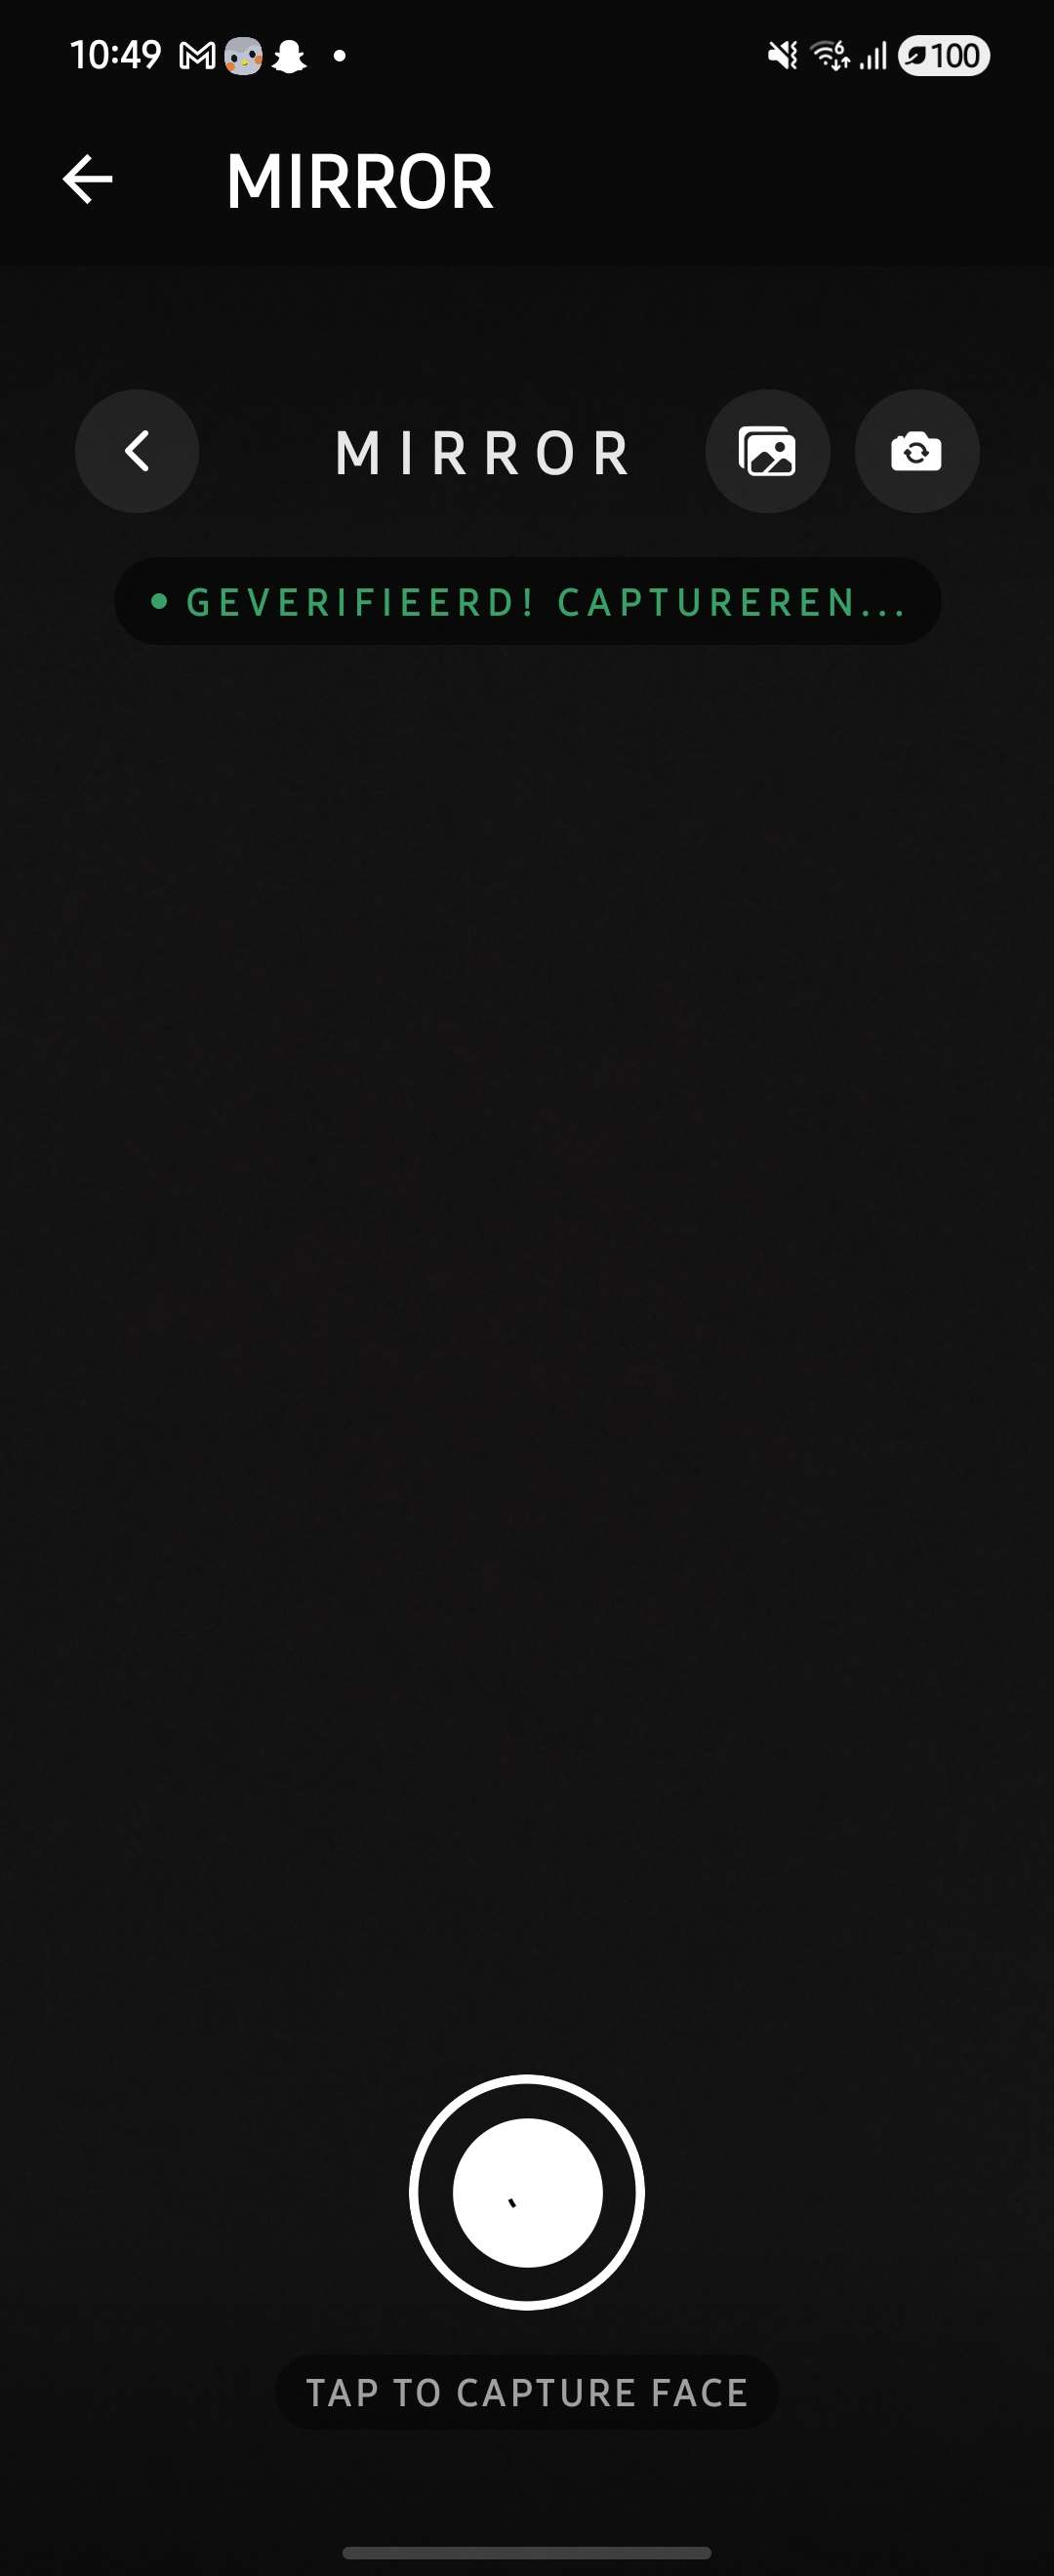
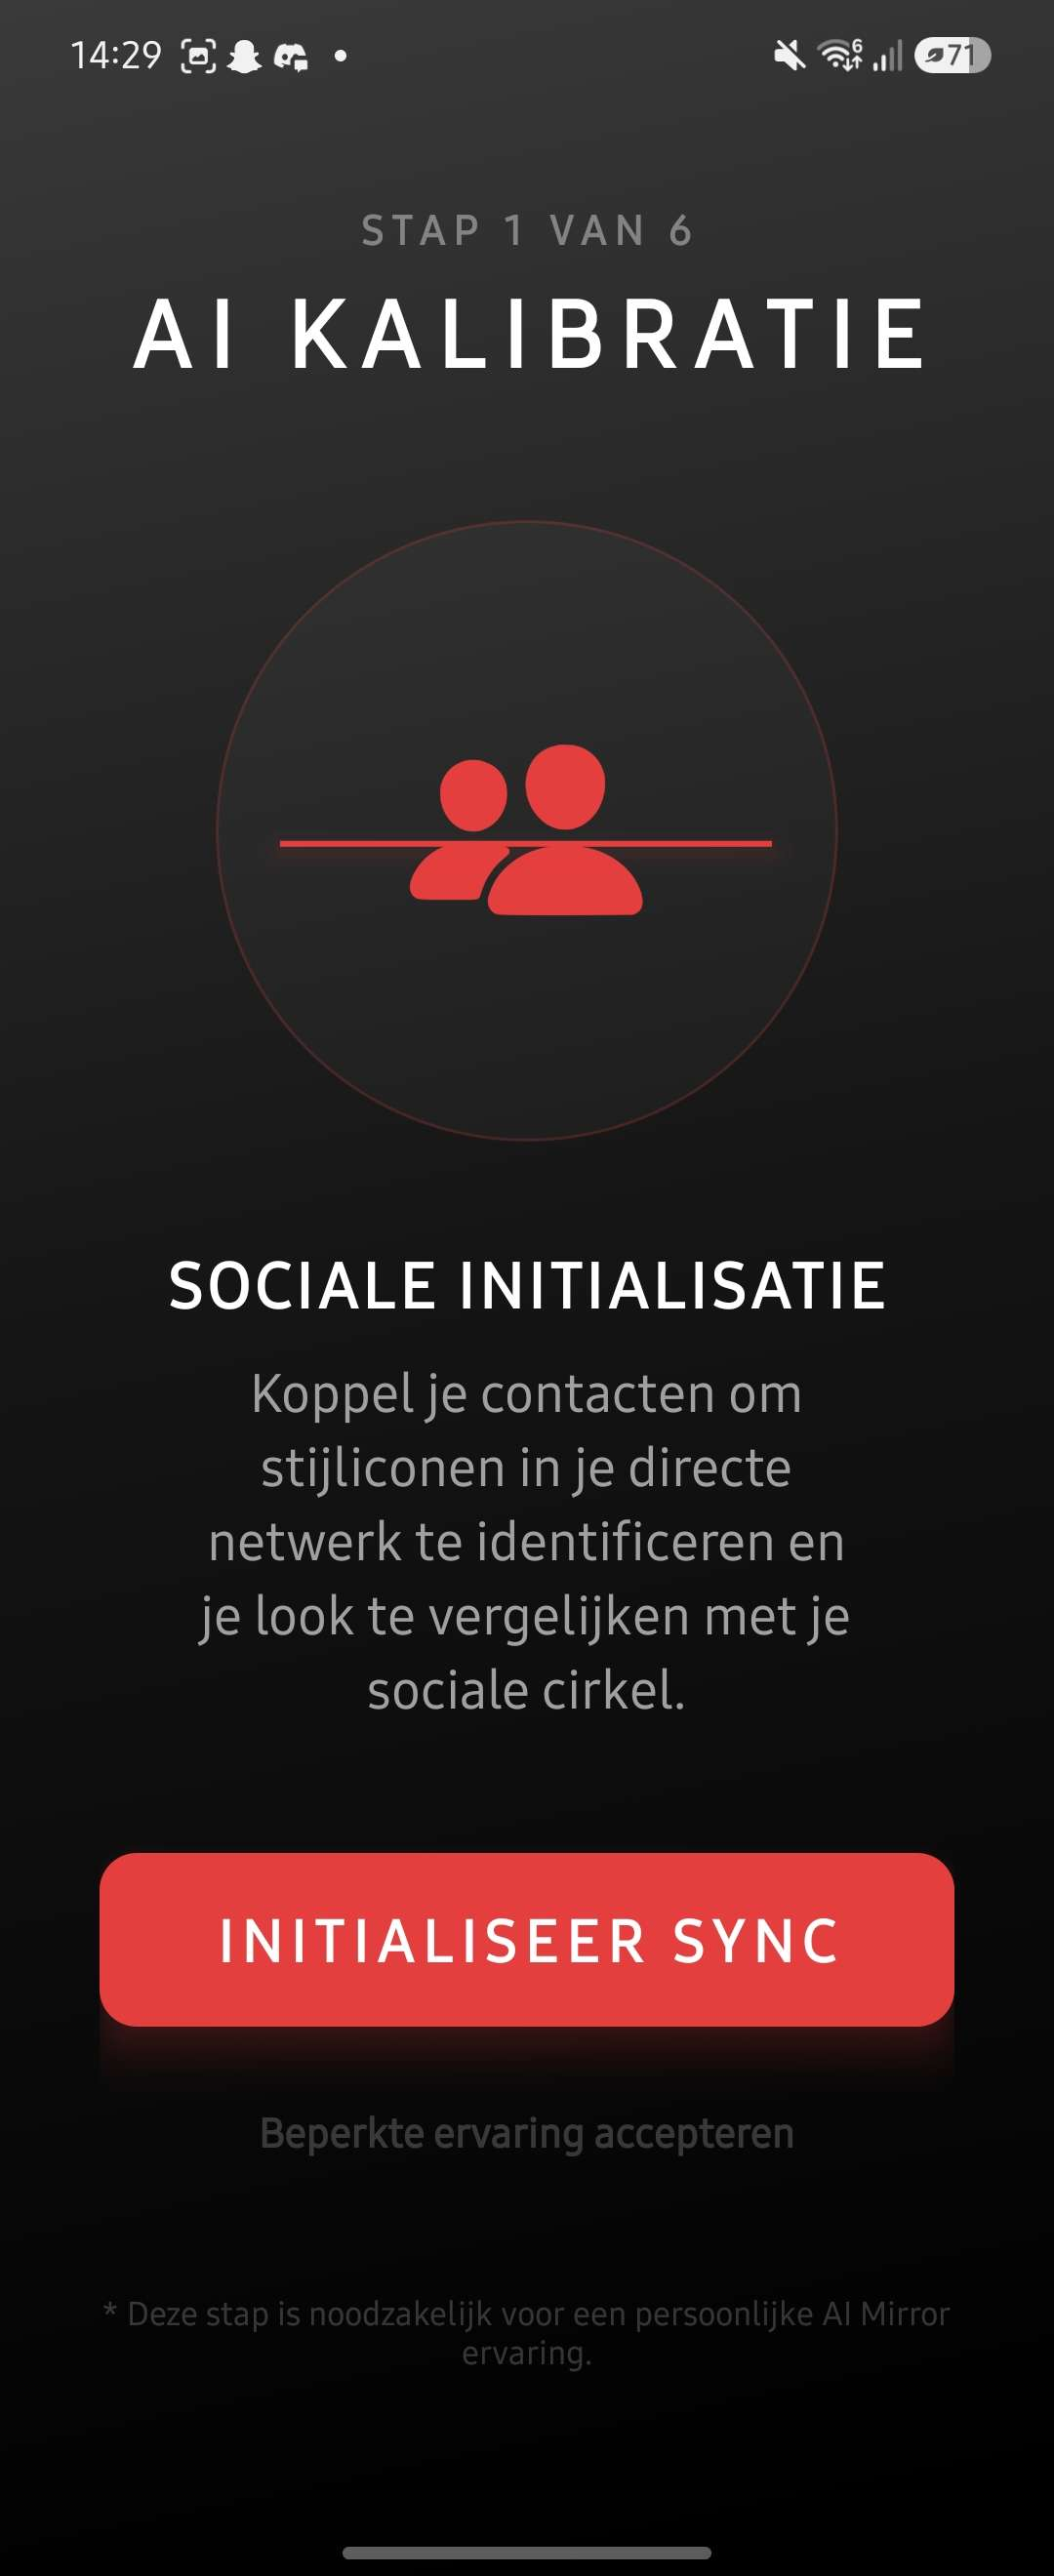
feat: add Projects component with gallery integration and project showcase data

diff --git a/src/components/Projects.tsx b/src/components/Projects.tsx
@@ -20,31 +20,85 @@ const projects: Project[] = [
   {
     id: 1,
     label: 'School Project',
-    name: 'AI Stylist Companion',
-    description: 'A sophisticated AI-driven style tool that analyzes user preferences and physical traits to provide personalized fashion recommendations. Built to bridge the gap between AI technology and personal expression.',
-    tech: ['Mobile Engineering', 'Computer Vision', 'Style Analysis'],
-    image: '/smaakmanipulatie-home.png',
+    name: 'Smaakmanipulatie (Taste Manipulation)',
+    description: 'An interactive, provocative Dark Tech prototype developed for the Lectoraat Fashion Research & Technology at AUAS (Hogeschool van Amsterdam). Designed to expose how digital recommendation engines transition from personalization to active manipulation, this project technically implements the "mere exposure effect" through seven deliberate deceptive patterns. By tracking user behavior and silently adjusting style feeds, the system forces a critical dilemma: do we still choose what we find beautiful, or has the algorithm manufactured our taste?',
+    tech: ['React Native', 'OpenAI Vision', 'Deceptive UX Patterns', 'Data Dashboards'],
+    image: '/smaakmanipulatie-1.png',
     allImages: [
-      { url: '/smaakmanipulatie-home.png', desc: 'Main entry point for the AI Stylist experience' },
-      { url: '/smaakmanipulatie-profile.png', desc: 'Detailed user profiling for physical traits and style mapping' },
-      { url: '/smaakmanipulatie-3.png', desc: 'Live mirror interface for facial data capture and verification' },
-      { url: '/smaakmanipulatie-4.png', desc: 'Personalized stijlsuggesties with actionable shopping links' },
-      { url: '/smaakmanipulatie-5.png', desc: 'Successful completion of the style analysis process' }
+      {
+        url: '/smaakmanipulatie-1.png',
+        desc: 'The entry point. Before the user does anything, the app positions itself as an intelligent, personal tool. The "3 scans over" counter introduces scarcity before consent is even given — the algorithm is already shaping behaviour.'
+      },
+      {
+        url: '/smaakmanipulatie-2.png',
+        desc: 'Account creation is framed as the start of a personal style journey. In reality, it is the first moment data is collected and the profile begins. The user does not yet know what that profile will be used for.'
+      },
+      {
+        url: '/smaakmanipulatie-3.png',
+        desc: 'Step 1 of 6. The app requests access to the user\'s contacts under the name "Sociale Initialisatie." Skipping is possible, but the option is labelled as accepting a limited experience. The cost of refusal is made to feel personal.'
+      },
+      {
+        url: '/smaakmanipulatie-4.png',
+        desc: 'The app asks for a home address to improve "hyperlocal style accuracy." The connection to taste is vague — the connection to logistics and targeting is not. Personalisation is used to justify data the system needs, not the user.'
+      },
+      {
+        url: '/smaakmanipulatie-5.png',
+        desc: 'After onboarding, the home screen shows the calibration score: 98.4%. The number suggests precision and completion. What it actually represents is how thoroughly the user has been profiled. The feed is now ready to begin.'
+      },
+      {
+        url: '/smaakmanipulatie-6.png',
+        desc: 'Gender and body type are collected as profiling categories. The framing is neutral — "for the perfect fit" — but the data directly determines which styles are surfaced and repeated. The mere exposure effect begins here.'
+      },
+      {
+        url: '/smaakmanipulatie-7.png',
+        desc: 'A loading screen that stalls at 98%. Cancellation is possible but barely visible. The screen uses waiting as a commitment device — time spent creates obligation. This is the moment the user is locked in without realising it.'
+      },
+      {
+        url: '/smaakmanipulatie-8.png',
+        desc: 'The suggestion feed. Items are shown repeatedly, in varying orders, with increasing familiarity. The dislike option is smaller and less prominent than the like. Over time, exposure shapes preference — the algorithm trains taste, not the user.'
+      },
+      {
+        url: '/smaakmanipulatie-9.png',
+        desc: 'Rejecting a suggestion triggers a mandatory donation. The action of not wanting something becomes a transaction. Refusal is no longer neutral — it has a cost attached. The system removes the option of simply saying no.'
+      },
+      {
+        url: '/smaakmanipulatie-10.png',
+        desc: 'Liking a suggestion immediately processes a payment of 149.99 from the linked account. The confirmation appears after the fact. A 5-second cancellation window exists but is not the primary action on screen. The choice has already been made.'
+      },
+      {
+        url: '/smaakmanipulatie-11.png',
+        desc: 'The order is placed and dispatched to the registered address — automatically, based on interaction signals. The user\'s swipe behaviour, not a deliberate purchase decision, determined the outcome. This is the end of the funnel the app never announced.'
+      }
     ]
   },
   {
     id: 2,
-    label: 'School Project',
+    label: 'Team Project',
     name: 'Rhino Elections',
-    description: 'A comprehensive election data platform providing clear insights into Dutch political results through data visualization, comparative analysis, and secure user interactions.',
-    tech: ['Data Visualization', 'User Management', 'Web Engineering'],
+    description: 'A civic data platform built to make Dutch election results accessible and comparable for anyone. The assignment asked how technology could bring citizens closer to European politics — our answer was transparency through data. Built with a Vue.js frontend and a Spring Boot REST API consuming official Kiesraad XML data, with JWT authentication, forum discussions, and Docker deployment.',
+    tech: ['Vue.js', 'Spring Boot', 'JWT Auth', 'Docker'],
     image: '/elections-1.png',
     allImages: [
-      { url: '/elections-1.png', desc: 'Information dashboard showing key election figures and mission' },
-      { url: '/elections-2.png', desc: 'Parliamentary seat distribution overview (Hemicycle view)' },
-      { url: '/elections-3.png', desc: 'Analytical year-on-year comparison of election outcomes' },
-      { url: '/elections-4.png', desc: 'Secure community login and registration interface' },
-      { url: '/elections-5.png', desc: 'Integrated profile management with real-time success feedback' }
+      {
+        url: '/elections-1.png',
+        desc: 'The starting point for the platform. The headline frames the intent directly: all data on Dutch elections, in one place. Key figures from the most recent election are surfaced immediately — year, number of parties, total candidates. The mission section states it plainly: clarity, transparency, and independent decision-making.'
+      },
+      {
+        url: '/elections-2.png',
+        desc: 'The seat distribution view for the 2023 Tweede Kamerverkiezingen. A hemicycle diagram maps 150 seats across all parties. Below it, a filterable table breaks down votes and seats per party by region. The data comes directly from the Kiesraad XML feed, parsed and aggregated in the backend without database queries.'
+      },
+      {
+        url: '/elections-3.png',
+        desc: 'The comparison view lets users put two election years side by side — here 2021 and 2023, filtered to a specific kieskring. Biggest gainers and losers are surfaced automatically. Parties that appeared or disappeared between elections are listed separately. The goal was to make political shifts legible without needing prior knowledge.'
+      },
+      {
+        url: '/elections-4.png',
+        desc: 'A login is required to participate in forum discussions. The platform is readable without an account — authentication gates contribution, not access. Registration and login share the same screen. JWT tokens handle session management without Spring Security, as required by the assignment.'
+      },
+      {
+        url: '/elections-5.png',
+        desc: 'The profile page, where users can update their username, bio, avatar, and email. A success message confirms the change without a page reload. The forum feature depends on identity — this screen is where that identity is managed.'
+      }
     ]
   }
 ];
@@ -71,9 +125,9 @@ const Projects: React.FC<ProjectsProps> = ({ onOpenGallery }) => {
     <section id="projects" className="py-32 relative bg-zinc-900/10 overflow-hidden">
       {/* Seamless Dot Pattern Overlay */}
       <div className="absolute inset-0 bg-dot-pattern mask-fade-y pointer-events-none opacity-40" />
-      
+
       <div className="max-w-6xl mx-auto px-8 relative z-10">
-        <motion.div 
+        <motion.div
           initial={{ opacity: 0, y: 20 }}
           whileInView={{ opacity: 1, y: 0 }}
           viewport={{ once: true, margin: "-100px" }}
@@ -87,8 +141,8 @@ const Projects: React.FC<ProjectsProps> = ({ onOpenGallery }) => {
             Featured Projects
           </h2>
         </motion.div>
-        
-        <motion.div 
+
+        <motion.div
           variants={containerVariants}
           initial="hidden"
           whileInView="show"
@@ -96,17 +150,17 @@ const Projects: React.FC<ProjectsProps> = ({ onOpenGallery }) => {
           className="grid grid-cols-1 lg:grid-cols-2 gap-8"
         >
           {projects.map((project) => (
-            <motion.article 
+            <motion.article
               variants={itemVariants}
               key={project.id}
               className="flex flex-col overflow-hidden cursor-pointer group glass rounded-3xl transition-all duration-400 hover:-translate-y-2 hover:border-white/20"
               onClick={() => onOpenGallery(project.allImages)}
             >
               <div className="w-full aspect-[16/10] relative overflow-hidden bg-[#111]">
-                <img 
-                  src={project.image} 
-                  alt={project.name} 
-                  loading="lazy" 
+                <img
+                  src={project.image}
+                  alt={project.name}
+                  loading="lazy"
                   className="w-full h-full object-cover transition-transform duration-700 ease-[cubic-bezier(0.2,0,0.2,1)] group-hover:scale-105"
                 />
                 <div className="absolute inset-0 bg-zinc-950/40 flex items-center justify-center opacity-0 transition-opacity duration-400 group-hover:opacity-100">
@@ -125,7 +179,7 @@ const Projects: React.FC<ProjectsProps> = ({ onOpenGallery }) => {
                 </p>
                 <ul className="flex flex-wrap gap-3 list-none p-0 m-0">
                   {project.tech.map((t) => (
-                    <li 
+                    <li
                       key={t}
                       className="text-xs font-semibold text-white bg-white/5 px-4 py-2 rounded-full border border-white/10"
                     >